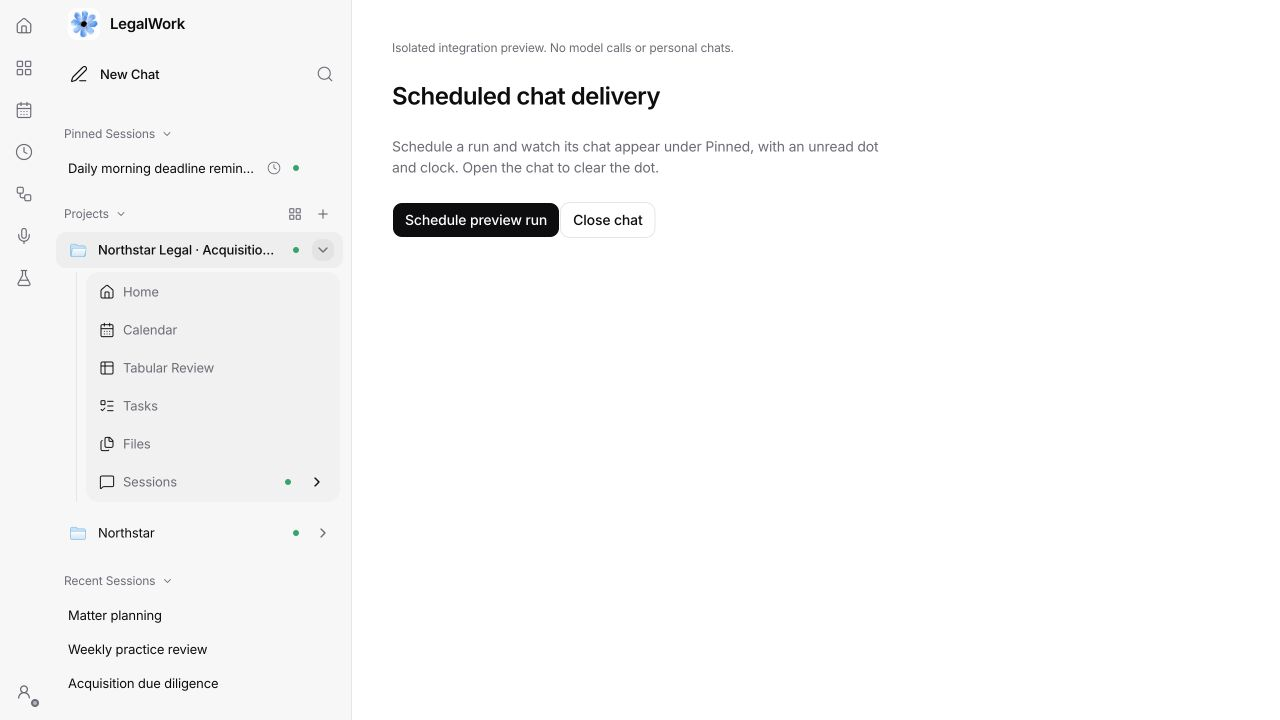
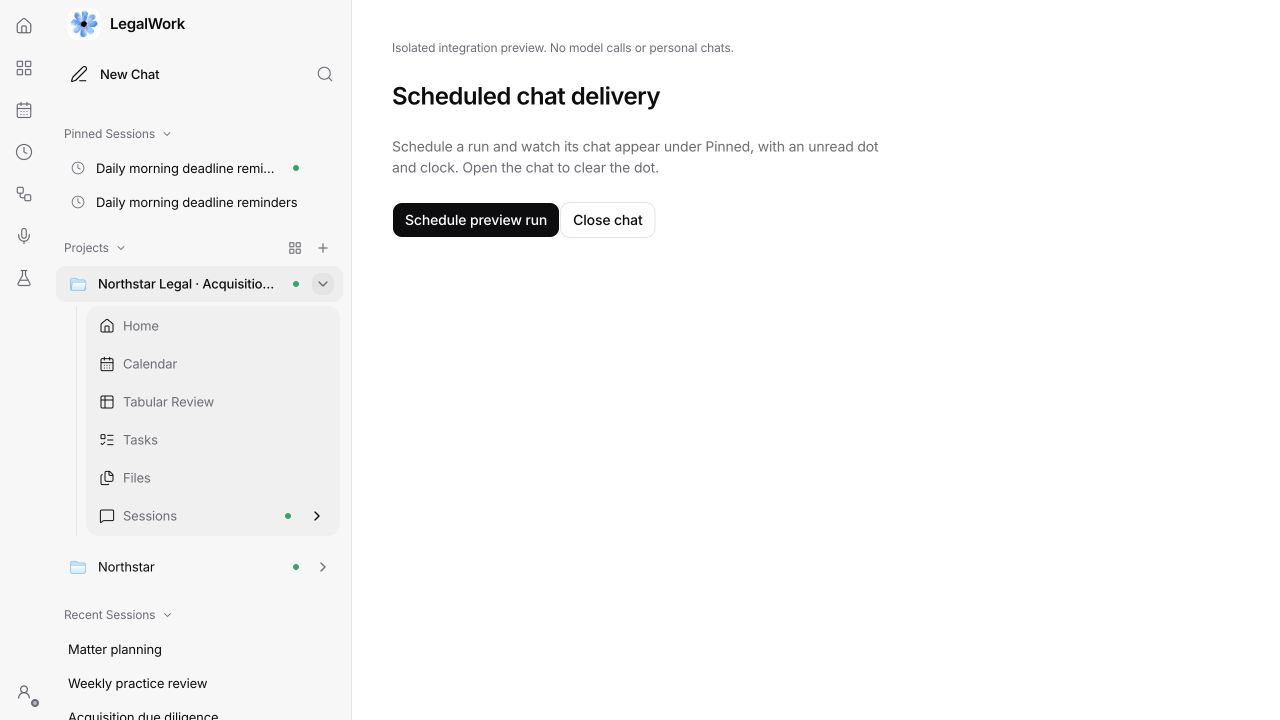
Start historical chats read and simplify scheduled chat indicators

diff --git a/apps/app/src/react-app/domains/session/sidebar/app-sidebar.tsx b/apps/app/src/react-app/domains/session/sidebar/app-sidebar.tsx
@@ -142,13 +142,18 @@ function useUnreadChats(sessions: SessionListItem[]) {
   return useSessionInboxStore(state => sessions.some(session => !isSessionArchived(session) && unreadSession(state, session.id)));
 }
 
-function SessionInboxIndicators({ sessionId, unread, className, status, isStreaming, isActive }: SessionStatusIndicatorProps & { sessionId: string; unread: boolean }) {
+function ScheduledSessionIcon({ sessionId }: { sessionId: string }) {
   const automated = useSessionInboxStore(state => Boolean(state.entries[sessionId]?.automation));
-  if (!automated && !unread && !isStreaming && !isActive) return null;
-  return <span className={cn("pointer-events-none flex shrink-0 items-center gap-2", className)}>
-    {automated && <Clock strokeWidth={1.5} className="size-3.5! shrink-0 text-muted-foreground" role="img" aria-label={t("sidebar.automated_chat")}><title>{t("sidebar.automated_chat")}</title></Clock>}
+  return automated ? <span className="flex size-5 shrink-0 items-center justify-center">
+    <Clock strokeWidth={1.5} className="size-3.5! text-muted-foreground" role="img" aria-label={t("sidebar.automated_chat")}><title>{t("sidebar.automated_chat")}</title></Clock>
+  </span> : null;
+}
+
+function SessionInboxIndicators({ unread, status, isStreaming, isActive }: SessionStatusIndicatorProps & { unread: boolean }) {
+  if (!unread && !isStreaming && !isActive) return null;
+  return <span className="pointer-events-none flex shrink-0 items-center gap-2">
     <SessionStatusIndicator status={status} isStreaming={isStreaming} isActive={isActive} />
-    {(unread || automated) && <span className="flex size-3.5 shrink-0 items-center justify-center"><UnreadDot unread={unread} /></span>}
+    {unread && <span className="flex size-3.5 shrink-0 items-center justify-center"><UnreadDot unread /></span>}
   </span>;
 }
 
@@ -1574,13 +1579,14 @@ function SessionMenuItem({
                 onFocus={prefetchSession}
               >
                 <PinnedIndicator isPinned={isPinned} />
+                <ScheduledSessionIcon sessionId={session.id} />
                 <span
                   className="min-w-0 flex-1 truncate"
                   title={displayTitle}
                 >
                   {displayTitle}
                 </span>
-                <SessionInboxIndicators sessionId={session.id} unread={unread} status={sessionActivityStatus} isStreaming={isSessionStreaming} isActive={isSessionActive} />
+                <SessionInboxIndicators unread={unread} status={sessionActivityStatus} isStreaming={isSessionStreaming} isActive={isSessionActive} />
                 <span className="flex items-center justify-center size-6 absolute right-2 top-1/2 -translate-y-1/2">
                   <ChevronRight className="size-4 text-muted-foreground transition-transform duration-200 group-data-open/session-collapsible:rotate-90 hover:text-foreground" />
                 </span>
@@ -1614,8 +1620,9 @@ function SessionMenuItem({
           )}
         >
           <PinnedIndicator isPinned={isPinned} />
+          <ScheduledSessionIcon sessionId={session.id} />
           <span className="min-w-0 flex-1 truncate" title={displayTitle}>{displayTitle}</span>
-          <SessionInboxIndicators sessionId={session.id} unread={unread} status={sessionActivityStatus} isStreaming={isSessionStreaming} isActive={isSessionActive} />
+          <SessionInboxIndicators unread={unread} status={sessionActivityStatus} isStreaming={isSessionStreaming} isActive={isSessionActive} />
         </SidebarMenuSubButton>
       </SessionContextMenu>
       <SessionActions
@@ -1771,8 +1778,9 @@ function GlobalSessionRow({ session, workspace }: { session: SessionListItem; wo
           event.stopPropagation();
           ctx.onOpenSessionWindow(workspace.id, session.id);
         }} onPointerEnter={() => ctx.onPrefetchSession?.(workspace.id, session.id)}>
+          <ScheduledSessionIcon sessionId={session.id} />
           <span className="min-w-0 flex-1 truncate" title={getDisplaySessionTitle(session.title)}>{getDisplaySessionTitle(session.title)}</span>
-          <SessionInboxIndicators sessionId={session.id} unread={unread} status={isSessionActivityStatus(status) ? status : undefined} isStreaming={isStreamingSessionStatus(status)} isActive={isSessionActivityStatus(status) && status !== "idle"} />
+          <SessionInboxIndicators unread={unread} status={isSessionActivityStatus(status) ? status : undefined} isStreaming={isStreamingSessionStatus(status)} isActive={isSessionActivityStatus(status) && status !== "idle"} />
         </SidebarMenuButton>
     </SessionContextMenu>
     <SessionActions sessionId={session.id} workspaceId={workspace.id} isPinned={pinned.has(session.id)} isArchived={false} className="absolute right-2 top-1/2 -translate-y-1/2 opacity-0 group-hover/session-row:opacity-100 group-focus-within/session-row:opacity-100 data-popup-open:opacity-100" />

diff --git a/apps/app/tests/session-inbox.test.ts b/apps/app/tests/session-inbox.test.ts
@@ -12,9 +12,51 @@ const { useSessionManagementStore: pins } = await import("../src/react-app/domai
 const { inboxNeedsRefresh } = await import("../src/react-app/shell/use-session-inbox");
 const entry = (assistantAt = 10): SessionInboxEntry => ({ workspaceId: "project", sessionId: "chat", updatedAt: assistantAt, assistantAt });
 beforeEach(() => {
-  inbox.setState({ entries: {}, readAt: {}, pinnedRunIds: {}, openSessionId: null });
+  inbox.setState({ entries: {}, readAt: {}, pinnedRunIds: {}, openSessionId: null, trackingStartedAt: 0 });
   pins.setState({ pinnedIds: [] });
   storage.clear();
+});
+
+test("enabling unread tracking starts existing chats read, including history loaded later", () => {
+  inbox.setState({ trackingStartedAt: null });
+  inbox.getState().receive([entry(10)], 100);
+  expect(unreadSession(inbox.getState(), "chat")).toBe(false);
+  inbox.getState().receive([{ ...entry(90), sessionId: "loaded-later" }], 110);
+  expect(unreadSession(inbox.getState(), "loaded-later")).toBe(false);
+  inbox.getState().receive([entry(101), { ...entry(105), sessionId: "new-chat" }], 120);
+  expect(unreadSession(inbox.getState(), "chat")).toBe(true);
+  expect(unreadSession(inbox.getState(), "new-chat")).toBe(true);
+  expect(inbox.getState().trackingStartedAt).toBe(100);
+});
+
+test("an empty first sync persists the cutoff and replies received while closed stay unread", async () => {
+  inbox.setState({ trackingStartedAt: null });
+  inbox.getState().receive([], 100);
+  const saved = storage.get("legalwork.react.sessionInbox")!;
+  expect(JSON.parse(saved).state.trackingStartedAt).toBe(100);
+  inbox.setState({ trackingStartedAt: null });
+  storage.set("legalwork.react.sessionInbox", saved);
+  await inbox.persist.rehydrate();
+  inbox.getState().receive([entry(110)], 200);
+  expect(inbox.getState().trackingStartedAt).toBe(100);
+  expect(unreadSession(inbox.getState(), "chat")).toBe(true);
+});
+
+test("upgrading the first release clears historical dots without replaying pins", async () => {
+  const historical = { ...entry(10), automation: { runId: "run1", at: 5, pinRunId: "run1" } };
+  const legacy = { entries: { chat: historical }, readAt: { chat: 3 }, pinnedRunIds: { chat: "run1" } };
+  inbox.setState({ trackingStartedAt: null });
+  storage.set("legalwork.react.sessionInbox", JSON.stringify({ state: legacy, version: 0 }));
+  await inbox.persist.rehydrate();
+  // No flash of unread dots from the cached data before the server responds.
+  expect(unreadSession(inbox.getState(), "chat")).toBe(false);
+  inbox.getState().receive([historical], 100);
+  expect(unreadSession(inbox.getState(), "chat")).toBe(false);
+  expect(inbox.getState().readAt.chat).toBe(3);
+  expect(pins.getState().pinnedIds).toEqual([]);
+  expect(JSON.parse(storage.get("legalwork.react.sessionInbox")!).state.trackingStartedAt).toBe(100);
+  inbox.getState().receive([{ ...historical, assistantAt: 101 }], 120);
+  expect(unreadSession(inbox.getState(), "chat")).toBe(true);
 });
 
 test("only assistant activity is unread; opening clears it until the next unseen reply", () => {

diff --git a/apps/app/src/react-app/domains/session/sidebar/session-inbox-store.ts b/apps/app/src/react-app/domains/session/sidebar/session-inbox-store.ts
@@ -8,18 +8,26 @@ type InboxState = {
   readAt: Record<string, number>;
   pinnedRunIds: Record<string, string>;
   openSessionId: string | null;
+  trackingStartedAt: number | null;
 };
-export function unreadSession(state: Pick<InboxState, "entries" | "readAt">, sessionId: string) {
-  return (state.entries[sessionId]?.assistantAt ?? 0) > (state.readAt[sessionId] ?? 0);
+export function unreadSession(state: Pick<InboxState, "entries" | "readAt" | "trackingStartedAt">, sessionId: string) {
+  // Older installs have no read history. Never turn their existing transcripts
+  // into notifications, including cached entries before the first refresh.
+  return state.trackingStartedAt !== null &&
+    (state.entries[sessionId]?.assistantAt ?? 0) > Math.max(state.trackingStartedAt, state.readAt[sessionId] ?? 0);
 }
 
 export const useSessionInboxStore = create<InboxState & {
-  receive: (sessions: SessionInboxEntry[]) => string[];
+  receive: (sessions: SessionInboxEntry[], now?: number) => string[];
   open: (sessionId: string | null) => void;
 }>()(persist((set, get) => ({
-  entries: {}, readAt: {}, pinnedRunIds: {}, openSessionId: null,
-  receive: sessions => {
+  entries: {}, readAt: {}, pinnedRunIds: {}, openSessionId: null, trackingStartedAt: null,
+  receive: (sessions, now = Date.now()) => {
     const state = get();
+    // Persist one cutoff, even for an empty initial snapshot. Replies arriving
+    // after this first successful sync remain unread across app restarts;
+    // historical chats loaded later stay read. Also migrates the first release.
+    const trackingStartedAt = state.trackingStartedAt ?? now;
     const entries = { ...state.entries }, readAt = { ...state.readAt }, pinnedRunIds = { ...state.pinnedRunIds };
     const changed = new Set<string>();
     for (const incoming of [...sessions].sort((a, b) => (a.automation?.at ?? 0) - (b.automation?.at ?? 0))) {
@@ -34,11 +42,11 @@ export const useSessionInboxStore = create<InboxState & {
         pinnedRunIds[entry.sessionId] = pinRunId;
       }
     }
-    if (changed.size || JSON.stringify(readAt) !== JSON.stringify(state.readAt) || JSON.stringify(pinnedRunIds) !== JSON.stringify(state.pinnedRunIds)) set({ entries, readAt, pinnedRunIds });
+    if (state.trackingStartedAt === null || changed.size || JSON.stringify(readAt) !== JSON.stringify(state.readAt) || JSON.stringify(pinnedRunIds) !== JSON.stringify(state.pinnedRunIds)) set({ entries, readAt, pinnedRunIds, trackingStartedAt });
     return [...changed];
   },
   open: sessionId => set(state => ({ openSessionId: sessionId, ...(sessionId ? { readAt: { ...state.readAt, [sessionId]: state.entries[sessionId]?.assistantAt ?? 0 } } : {}) })),
 }), {
   name: "legalwork.react.sessionInbox", storage: createJSONStorage(() => localStorage),
-  partialize: ({ entries, readAt, pinnedRunIds }) => ({ entries, readAt, pinnedRunIds }),
+  partialize: ({ entries, readAt, pinnedRunIds, trackingStartedAt }) => ({ entries, readAt, pinnedRunIds, trackingStartedAt }),
 }));

diff --git a/docs/reviews/scheduled-tasks/README.md b/docs/reviews/scheduled-tasks/README.md
@@ -24,9 +24,9 @@ The boundary is an engine tool-access policy. Trusted local plugins continue to 
 
 Scheduled delivery announces a session change over the app's existing SSE connection. Each window reconciles authorized local chat metadata every five seconds, on reconnect and on focus. New chats continue to trigger a list refresh until they appear, including when an earlier refresh was skipped or failed. A full reconciliation every thirty seconds also catches removal and archive changes. The endpoint exposes IDs and timestamps, never transcript contents.
 
-Unseen assistant activity gets a small green dot on the chat, its project, and collapsed sections or parent chats containing it. User messages and compaction summaries do not create dots. A chat is read once its snapshot has loaded in the foreground; expansion or background prefetch does not clear it. Read markers persist across restarts and synchronize across windows. Older chats without a saved read marker appear unread until opened.
+Unseen assistant activity gets a small green dot on the chat, its project, and collapsed sections or parent chats containing it. User messages and compaction summaries do not create dots. A chat is read once its snapshot has loaded in the foreground; expansion or background prefetch does not clear it. Read markers persist across restarts and synchronize across windows. On first use or upgrade, existing chats start read. A persisted cutoff is established on the first successful metadata sync, including an empty snapshot. Only later assistant replies create dots, so historical chats loaded later stay read and replies received while the app is closed remain unread on reopening.
 
-Advanced includes **Add the chat to pinned chats**, enabled by default. Successful automation delivery records the actual destination and moves that chat to the top of Pinned. The right-hand clock identifies automation chats. Each run's pin is applied once, so a manual unpin survives refresh/restart until a later run with pinning enabled. Turning pinning off does not remove an existing pin. Failed deliveries do not pin. Saved delivery markers survive deleting a schedule.
+Advanced includes **Add the chat to pinned chats**, enabled by default. Successful automation delivery records the actual destination and moves that chat to the top of Pinned. The clock before the chat name identifies automation chats. Each run's pin is applied once, so a manual unpin survives refresh/restart until a later run with pinning enabled. Turning pinning off does not remove an existing pin. Failed deliveries do not pin. Saved delivery markers survive deleting a schedule.
 
 ## Execution and recovery
 
@@ -94,9 +94,9 @@ Verified Tasks to Projects, back/forward navigation, and returning to Home in th
 
 ## Sidebar alignment follow-up
 
-Unread dots occupy a fixed trailing slot for short and long project names, pinned projects and chats. Session indicators participate in row layout, so titles truncate before the clock, activity state and unread dot. Menus and chevrons keep their own space. The scheduled-chat clock uses a 14 px icon with a lighter 1.5 px stroke, placed before the unread dot; reading the chat does not shift the clock.
+Unread dots occupy a fixed trailing slot for short and long project names, pinned projects and chats. Session indicators participate in row layout, so titles truncate before the activity state and unread dot. Menus and chevrons keep their own space. The scheduled-chat clock uses a 14 px icon with a lighter 1.5 px stroke, placed before the session name; the right side remains for unread state and actions.
 
-Verified normal and narrow sidebars, light/dark themes, project menus, and the running development Electron app after restarting it with the existing profile. The 11 sidebar/inbox checks, app typecheck and production build passed. To reproduce the layout fixture, use `session-inbox-preview.html?layout` or `?layout&narrow&theme=dark`, then click **Schedule preview run**.
+Verified normal and narrow sidebars, light/dark themes, project menus, and the running development Electron app after restarting it with the existing profile. All 869 app tests, including 14 sidebar/inbox checks, app typecheck and production build passed. Regression tests cover first-use history, late-loaded history, empty initial snapshots, restart persistence and upgrades from the first unread implementation without replaying pin actions. Verified historical dots disappear in the existing development profile and stay cleared after reload. A new fixture delivery still pins its chat and adds unread dots without a refresh, while older chats remain read. To reproduce the layout fixture, use `session-inbox-preview.html?layout` or `?layout&narrow&theme=dark`, then click **Schedule preview run**.
 
 ## Screenshots
 
